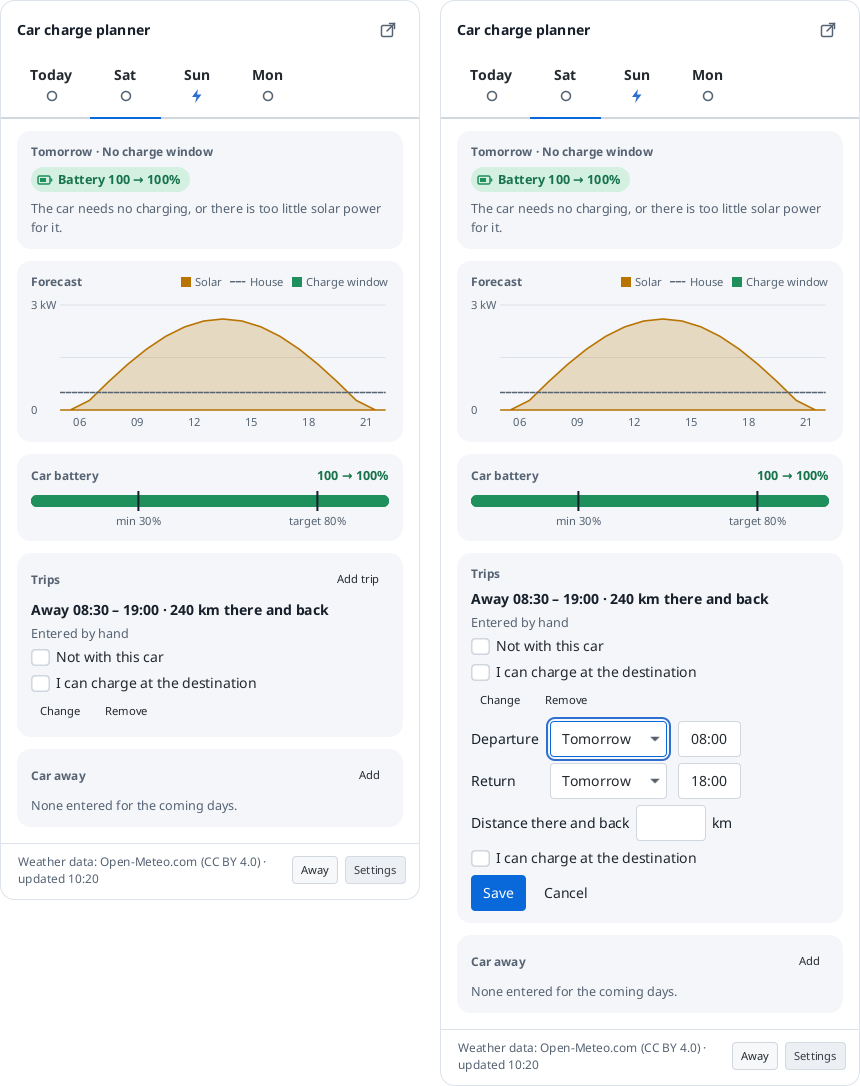
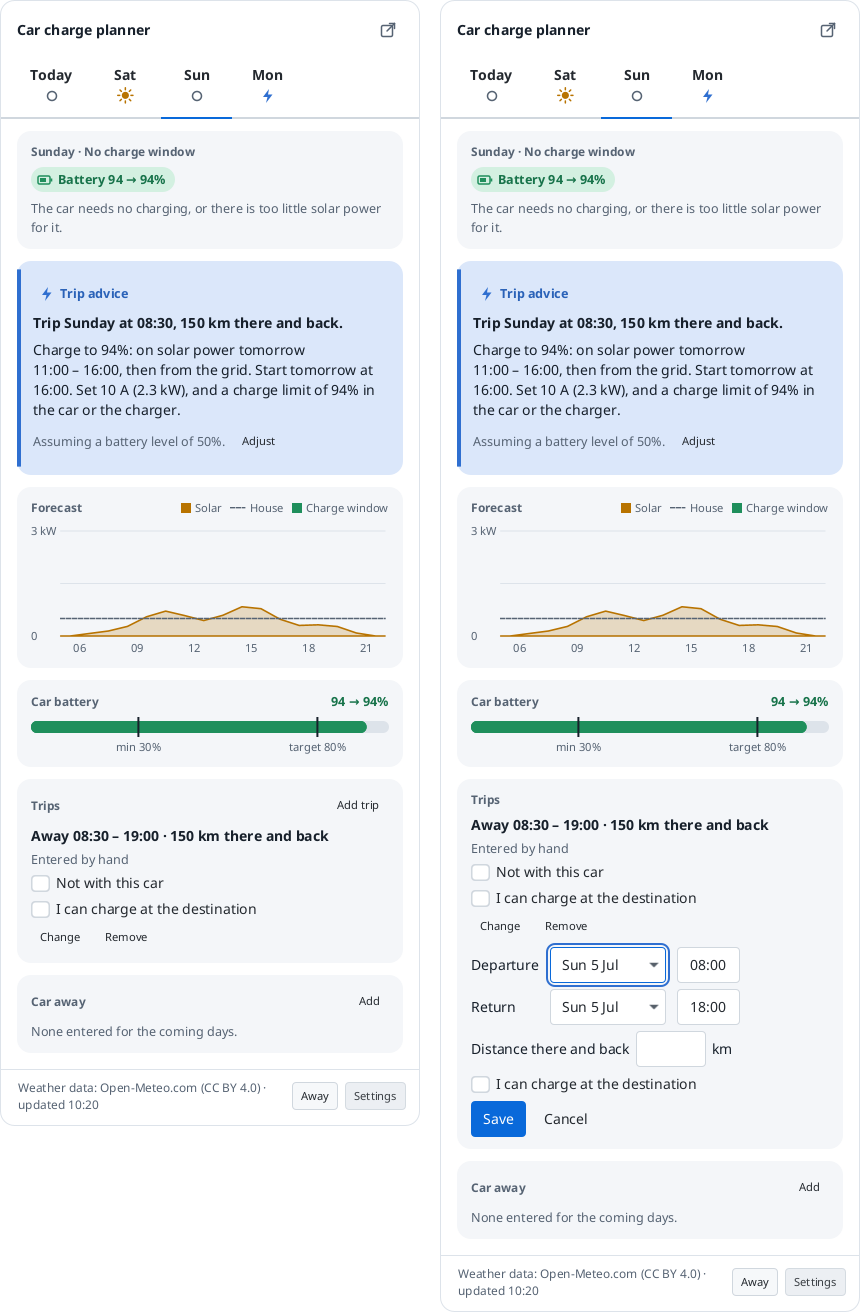
Pictures: the trip's day with its advice, solar power and then the grid

diff --git a/src/test/java/nl/enadeag/carchargeplanner/desktop/dashboard/DashboardPictures.java b/src/test/java/nl/enadeag/carchargeplanner/desktop/dashboard/DashboardPictures.java
@@ -98,8 +98,8 @@ public final class DashboardPictures {
     }
 
     /**
-     * Two dashboards side by side on Saturday, the day of a trip: the trip with its choices, and a new trip being
-     * entered.
+     * Two dashboards side by side on Sunday, the day of a trip: the advice for the trip, which charges on Saturday's
+     * sun and then from the grid, and the trip with its choices; and a new trip being entered.
      *
      * @param scheme light or dark
      * @param folder an empty folder for the engine's files
@@ -121,15 +121,15 @@ public final class DashboardPictures {
      * @throws Exception when the plan or the picture cannot be made
      */
     static WritableImage trip(ColorScheme scheme, Path folder, Language language, double zoom) throws Exception {
-        var saturday = TODAY.plusDays(1);
-        var trip = new Trip(saturday.atTime(8, 30).atZone(BRUSSELS).toInstant(),
-                saturday.atTime(19, 0).atZone(BRUSSELS).toInstant(), 240, false);
+        var sunday = TODAY.plusDays(2);
+        var trip = new Trip(sunday.atTime(8, 30).atZone(BRUSSELS).toInstant(),
+                sunday.atTime(19, 0).atZone(BRUSSELS).toInstant(), 150, false);
         var plan = plan(folder, language, List.of(trip));
         var messages = new Messages(language);
         return Fx.call(() -> Pictures.sideBySide(GAP,
-                dashboard(plan, scheme, Frame.POPUP, zoom, messages, view -> clickDay(view, 1)),
+                dashboard(plan, scheme, Frame.POPUP, zoom, messages, view -> clickDay(view, 2)),
                 dashboard(plan, scheme, Frame.POPUP, zoom, messages, view -> {
-                    view.selectDay(1);
+                    view.selectDay(2);
                     button(view, messages, TextKey.TRIP_ADD).fire();
                 })));
     }

diff --git a/docs/guide.md b/docs/guide.md
@@ -29,7 +29,7 @@ When the app is started hidden at login, set-up does not open by itself; one not
 - Right-click the icon for **Open dashboard**, **Settings…** (**Set up…** until the app is set up), **About…** and **Quit**.
 - A desktop notification comes a few minutes before each charge window (the lead time is a setting), once per window. Clicking it opens the dashboard. On Linux notifications go straight to the desktop's notification service over D-Bus, so they work with or without a tray; on Windows they come from the tray icon.
 
-<picture><source media="(prefers-color-scheme: dark)" srcset="screenshots/java/dashboard-trip-dark.png"><img alt="Two dashboards on a day with a trip: the trip with its choices, and a new trip being entered." src="screenshots/java/dashboard-trip-light.png" width="600"></picture>
+<picture><source media="(prefers-color-scheme: dark)" srcset="screenshots/java/dashboard-trip-dark.png"><img alt="Two dashboards on a day with a trip: the advice for the trip, with its solar and grid parts, the start and the charge limit, and the trip with its choices; and a new trip being entered." src="screenshots/java/dashboard-trip-light.png" width="600"></picture>
 
 ## Settings
 
